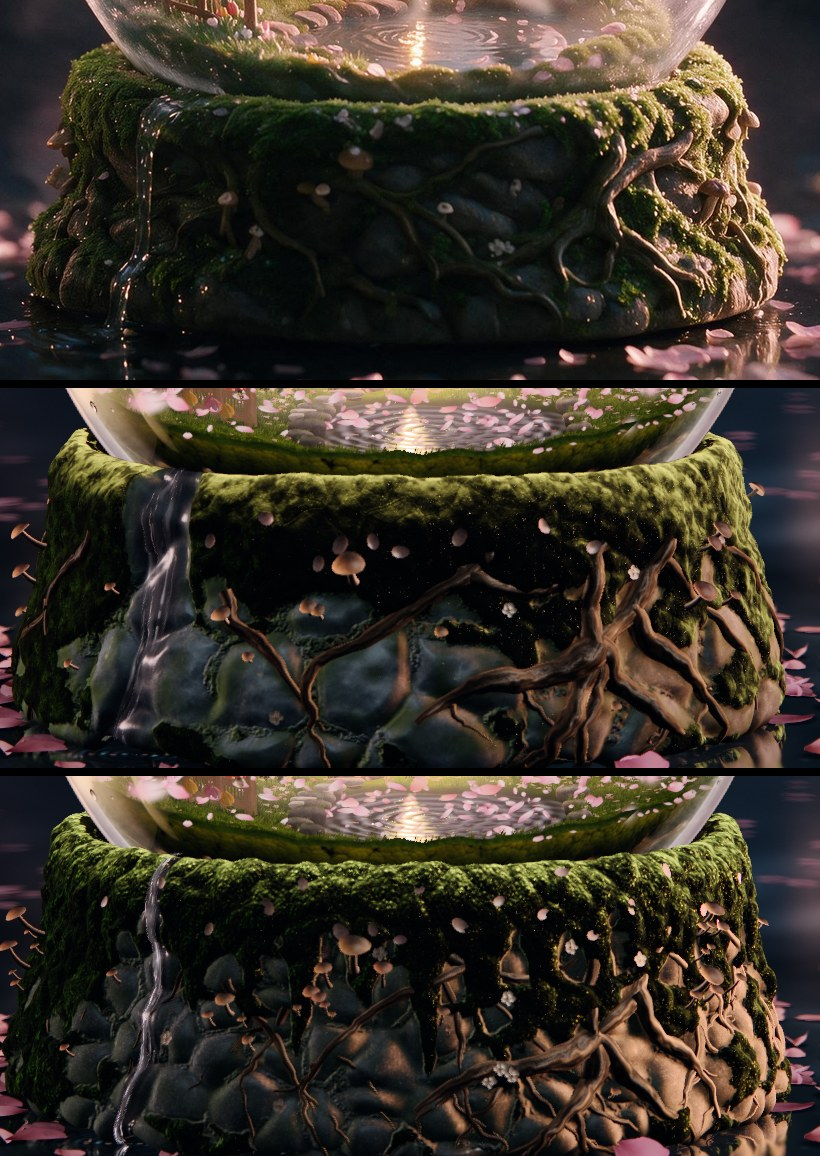
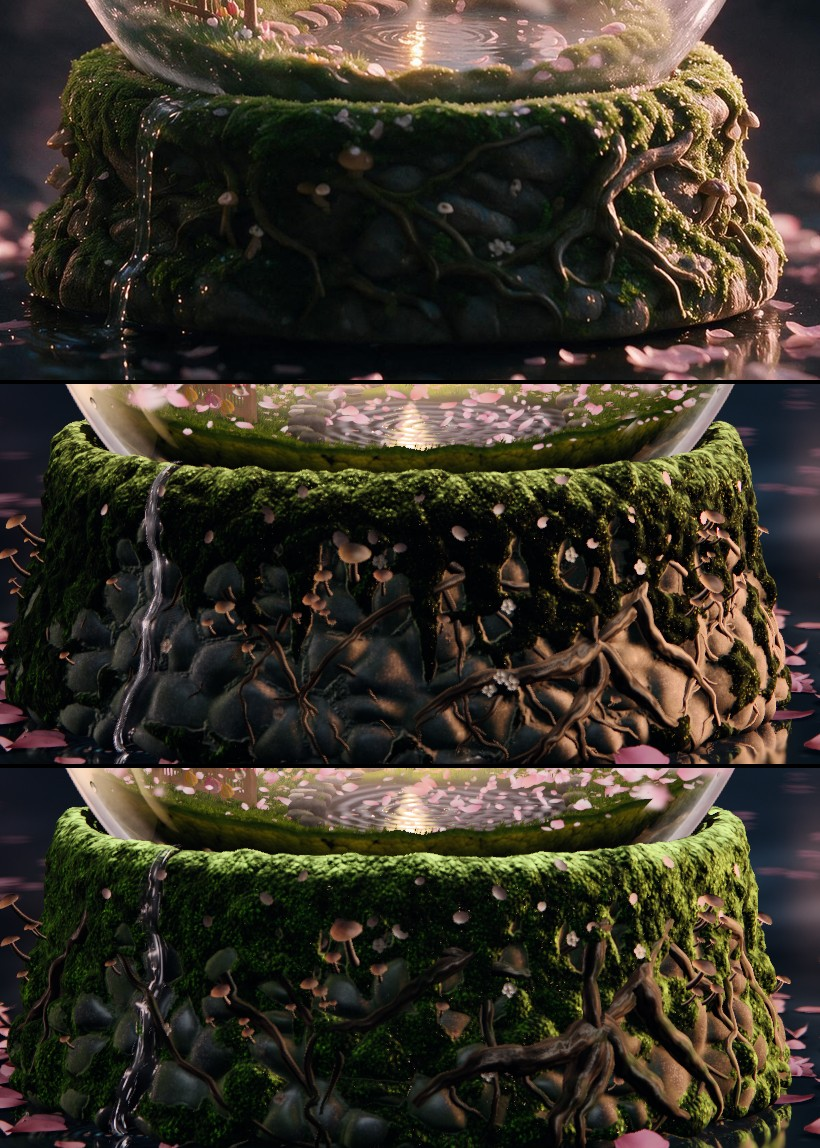
Looks: the second list at 2df09fc9 beside the approved picture and the first base, four frames at 3840, the handover

diff --git a/HANDOVER.md b/HANDOVER.md
@@ -1,27 +1,30 @@
-# Handover: spring's base (phase 6)
+# Handover: spring's base (phase 6, second list)
 
 Branch `agent/p6-spring-base`. Files: `src/seasons/spring/base.ts`, `assets-src/base-spring/build.mjs`, `layout.mjs`, `RECIPE.md`. Assets to make again: `npm run make -- base-spring`, then `npm run texpack -- --group spring` (texpack also rewrites `public/assets/spring/village-spring.glb`, which is not this job's; restore it with `git checkout`).
 
 ## What stands
-- Cobbles: cells of about 9.4 by 6.6 mm in `voronoi`, domed by distance to the seed, blurred 0.75 mm. Dark and damp in the shader (`baseStone`).
-- Moss: `drape` is a base line of -4.5 mm from the shoulder plus the tongues of `DRIPS` (added, not the greater of the two: a tongue's bell is above zero everywhere, so a base line below zero had no effect before). Tufts and sprigs in the height, the moss sheet at 22 mm a repeat.
-- Light: the moss is lit along the lip only (`liveLip`); the low sun on the right flank is `ROCK.flank` with `liveGrazeM` cubed, on the stone, the moss and the roots. The dew's lines are the mender's and untouched.
-- Roots: thinner, more twigs, eleven thin wanderers in front; paler wood; the bark's ridges take the low sun.
-- Trickle: one strand, bright at its edges, clear in the middle; `TRICKLE_WIDTH` 2 to 3.4 mm.
-- Petals on the moss: ten more in `LEDGE_PETALS`, paler.
+- Cobbles: cells of about 9.4 by 6.6 mm in `voronoi`, domed by distance to the seed, blurred 0.75 mm. Dark and damp in the shader (`baseStone`, `ROCK.fill` 0.7, `ROCK.lustre` 0.15 for the soft sheen on their upper faces).
+- Moss on the whole flank: three sources in `build.mjs`, the greater of them wins. `patch` (noise at 26 by 4 a turn plus the joints), `seam` (the joints alone, at 0.55), and `shelf` (whole cobbles capped where `lies` is over 0.63). The lip's band is `drape` with the tongues of `DRIPS`. The cover map is mostly moss with stones showing through; lower the three thresholds for more stone.
+- Moss shade: the fill (`ROCK.mossFill` 4.2) has a floor of 0.3 and follows the moss sheet's height, so the shaded moss stays green instead of black. The low sun on the right is tinted green on moss so it does not read as warm.
+- Flecks: the moss's share of the low sun is `(0.8 + 1.8 * liveTuft) * 1.6` (was `0.3 + 7.0 * liveTuft`) and the lit tip is `1.7 + 2.1 * liveTuft + 1.5 * liveFuzz` (was `1.0 + 14.0 * liveTuft`). The dew's lines are the mender's and untouched.
+- Roots: only the twigs of `ROOTS`, thicker (stout ones by 1.3), long curves with little fine wiggle, four wanderers in front; dark grey brown wood with moss on their backs (`baseRootMoss`).
+- Trickle: `TRICKLE_WIDTH` 3.4 to 5.6 mm. The channel under it is dark wet stone and the moss grows ragged into it; the ribbon itself is nearly clear with thin bright edges (`rimline`, added after the edge fade) and streaks.
 
 ## What is short of the approved picture
 - The base's outline is a drum; the approved one tapers and bulges. Not in this job.
-- The approved roots are thicker, smoother and curve more; these are thinner and straighter.
-- The warm light reaches a few stone faces left of the root knot that are dark in the approved picture.
-- The moss cushions are lumpier than the approved fine carpet; the lip has no row of bright beads.
-- The trickle has fewer glints at its foot than approved.
+- The lip's lit band is still broader and brighter than the approved thin rim (brightest row about 105 117 60 against 70 73 45), and it has no row of bright beads. Lowering it further costs the M3 line: the lip's moss carries much of it, where the approved has its fine detail in the sunlit right side.
+- The flank's p90 and warm bright share are above the approved (77 against 66, 0.14 against 0.12).
+- The roots on the sunlit right are darker than the approved tan ones.
+- The trickle has few glints at its foot.
+- The stones read a little even and olive beside the approved dark wet cobbles.
 
 ## How to look
 `npm run still -- --season spring --state rest --camera hero --tier review --format hd --force`, then crop (560,640,1380,1020) beside the approved picture scaled to 1920. The detail line: `npm run measure -- --unit spring --only M3 --force --tier review`.
 
-## At 3840 in motion (film frames 1100 to 1103, final, head 15ad02bc)
-The camera moves the base by 1 to 3 pixels a frame there. Each box laid on its neighbour by whole pixels, luminance, mean change a frame against the box's own mean step from one row to the next:
-- moss at the lip 9.3 to 10.3 against 14.6; lit moss on the right 9.8 to 10.4 against 19.1
-- stones 1.4 to 1.8 against 2.4; roots 2.9 to 3.2 against 4.7; water 3.3 to 3.9 against 4.4
-The moss's flecks keep their places from frame to frame (picture 04), but they are 2 to 4 pixels wide and far brighter than the green between them, so they will crawl as the camera drifts. The lines that make them: in `src/seasons/spring/base.ts` the lit tip (`1.0 + 14.0 * liveTuft`) and the moss's share of the low sun (`0.3 + 7.0 * liveTuft`, with `liveGrazeM` cubed). Lowering both and widening the tuft's grain is the next step; the M3 line (0.830) leans on them and will fall when they are lowered.
+## At 3840 in motion (film frames 1100 to 1103, final)
+The camera moves the base by 1 to 3 pixels a frame there. Each box laid on its neighbour by whole pixels, luminance; mean change a frame, the 99th percentile of the change, and the share of pixels that change by more than 24 levels. Before is df49a7e6, after is the second list.
+- moss at the lip: before 9.3 to 10.3, p99 58 to 62, 10.3 to 12.1 percent; after 5.5 to 6.4, p99 38 to 44, 3.3 to 4.9 percent
+- lit moss on the right: before 9.8 to 10.4, p99 59 to 62, 10.6 to 12.0 percent; after 8.2 to 8.6, p99 48 to 49, 7.0 to 7.7 percent
+- stones: before 1.4 to 1.8; after 2.1 to 2.5. Roots: before 2.9 to 3.2; after 2.7 to 3.0
+- water: before 3.3 to 3.9, p99 35 to 42; after 4.5 to 5.1, p99 60 to 63 (the bright edges and streaks of the trickle are one to two pixels wide)
+In picture 04 the same leaflets keep their place and their brightness through the four frames. Four frames are not the film: nobody has watched this at 60 a second. If the right flank still crawls there, lower `(0.8 + 1.8 * liveTuft) * 1.6` in `base.ts` again; the M3 line then needs form on the sunlit right (lit roots against dark gaps, as the approved has) to stay over 0.75.
